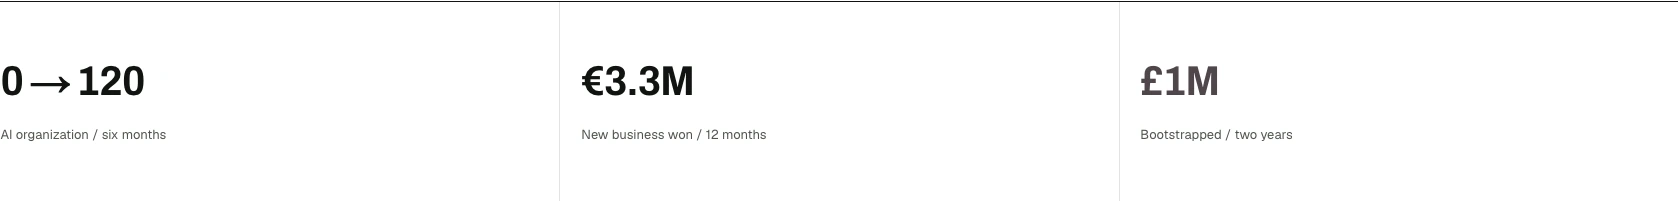
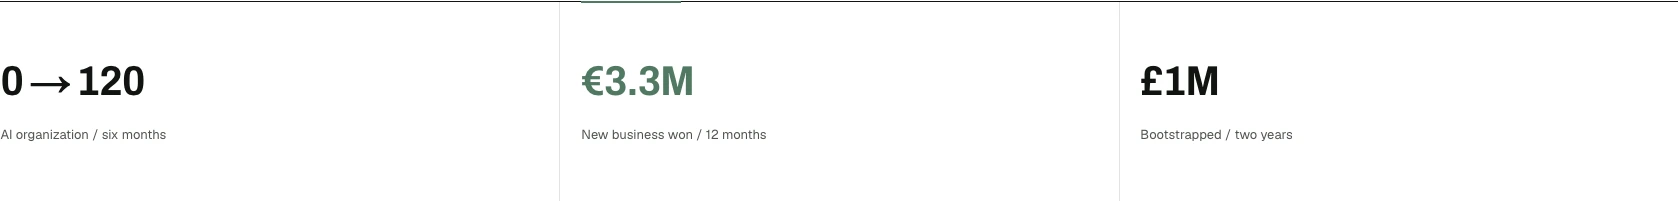
Give outcome hover a clear colour response and a restrained accent (#21)

Changed region(s): [[0.3409, 0.3284, 0.4338, 0.4776], [0.6818, 0.3284, 0.7437, 0.4776], [0.3409, 0.0, 0.4029, 0.0299]]

diff --git a/src/app/globals.css b/src/app/globals.css
@@ -19,9 +19,9 @@
   --card: #f6f6f6;
   --wash-rose: #faf7f8;
   --wash-blue: #f5f8fa;
-  --detail-blue: #41494f;
-  --detail-sage: #424b46;
-  --detail-rose: #50464c;
+  --detail-blue: #446f89;
+  --detail-sage: #507861;
+  --detail-rose: #946378;
   --paper-high: #ffffff;
   --signal: #f6f6f6;
   --accent: #101410;
@@ -830,18 +830,39 @@ a.orbit-label:focus-visible { opacity: 1 !important; color: #ffffff; outline: 2p
 .work-metric-rail > div:nth-child(1) { --metric-ink: var(--detail-blue); }
 .work-metric-rail > div:nth-child(2) { --metric-ink: var(--detail-sage); }
 .work-metric-rail > div:nth-child(3) { --metric-ink: var(--detail-rose); }
-/* Plain evidence stays on paper. Only the ink responds: no filled cell
-   ending against its caption, and no movement of the figures. */
+/* Colour arrives in the figure and a short stroke on the existing rule.
+   Keep the response local to the evidence, with no moving text or fill. */
+.work-metric-rail > div { position: relative; }
+.work-metric-rail > div::before {
+  content: "";
+  position: absolute;
+  top: -1px;
+  left: 1.25rem;
+  width: min(6rem, 40%);
+  height: 2px;
+  background: var(--metric-ink);
+  pointer-events: none;
+  opacity: 0;
+  transform: scaleX(0.25);
+  transform-origin: left;
+  transition: opacity var(--d-2) var(--ease), transform var(--d-3) var(--ease-settle);
+}
+.work-metric-rail > div:first-child::before { left: 0; }
 .work-metric-rail dd {
-  transition: color var(--d-3) var(--ease);
+  transition: color var(--d-2) var(--ease);
 }
 @media (hover: hover) and (pointer: fine) {
   .work-index-row:hover::before,
   .lab-record:hover::before { opacity: 1; }
   .work-metric-rail > div:hover dd { color: var(--metric-ink); }
+  .work-metric-rail > div:hover::before { opacity: 1; transform: scaleX(1); }
+}
+@media (max-width: 768px) {
+  .work-metric-rail > div::before { left: 0; }
 }
 @media (prefers-reduced-motion: reduce) {
-  .work-index-row::before, .lab-record::before, .work-metric-rail dd { transition: none; }
+  .work-index-row::before, .lab-record::before,
+  .work-metric-rail > div::before, .work-metric-rail dd { transition: none; }
 }
 
 

diff --git a/review-vfx/gentle-colour/README.md b/review-vfx/gentle-colour/README.md
@@ -1,21 +1,25 @@
 # Gentle colour and metric spacing — 5 September 2026
 
 The previous outcome hover filled the whole cell, stopping flush against its caption.
-The cells now remain white, the numbers stay still, and each figure receives only a
-restrained blue, sage or rose ink tint. Balanced cell padding and a more generous line
+The cells now remain white, the numbers stay still, and each figure resolves to a visible
+slate blue, sage or dusty rose. A short matching stroke draws along the existing divider.
+Balanced cell padding and a more generous line
 height leave room around the figures and labels, including when stacked on a phone.
 
 Home's near-white rose and the Lab's cool blue fade into the paper instead of covering
 each record with the same violet rectangle. Focus keeps the same acknowledgement as hover.
 
-- [Desktop metrics, final figure hovered](desktop-metrics.webp)
+- [Desktop metrics, middle figure hovered](desktop-metrics.webp)
+- [Blue figure hovered](metric-blue.webp)
+- [Rose figure hovered](metric-rose.webp)
 - [Phone metrics](phone-metrics.webp)
 - [Home record hovered](home-hover.webp)
 - [Lab record hovered](lab-hover.webp)
 
-Validation: production build, ESLint, 263 unit tests and eight relevant browser tests passed.
-The browser tests cover responsive layout, focus, case navigation, semantic fallbacks and
-mobile accessibility. Additional Chrome checks at 320, 390, 768, 769, 1280, 1920 and 2560px
+Follow-up validation: production build, ESLint and four relevant browser tests passed.
+The browser tests cover responsive layout, focus and mobile accessibility.
+All three hover colours have at least 4.87:1 contrast on white. Additional Chrome checks
+at 320, 390, 768, 769, 1280, 1920 and 2560px
 confirmed that figures and captions fit, hover does not move the numbers, and the pages do
 not overflow. Touch, keyboard focus and reduced-motion states were checked.
 Measurements are recorded in [visual-verification.json](visual-verification.json).

diff --git a/DESIGN-MOTION.md b/DESIGN-MOTION.md
@@ -20,8 +20,8 @@ labels. Display weight never animates.
 - Paper `#fff`; ink `#101410`; reading `#4f554d`; ghost `#b9b9b9`; hairline `#e3e3e3`.
 - Interaction washes: near-white rose `#faf7f8` for Home rows and cool blue `#f5f8fa` for Lab
   records, fading to transparent across each record. Keyboard focus receives the same acknowledgment.
-  Outcome figures use restrained blue `#41494f`, sage `#424b46` and rose `#50464c` ink on hover;
-  their cells remain white.
+  Outcome figures use slate blue `#446f89`, sage `#507861` and dusty rose `#946378` ink on hover,
+  accompanied by a short 2px accent on the existing rule. Their cells remain white.
 - Live green `#3fa06c` means running in production only.
 - Clay `#e45b3d` marks a small case/source annotation and never becomes a decorative field.
 - Shared frame up to 112rem, with gutters clamped from 22px to 6rem. Type and content grow
@@ -42,9 +42,10 @@ labels. Display weight never animates.
 - Planet captures join the actual camera distance and framing, then return the camera,
   exposure and photographic sky together. Full and compact shots share the same landmarks;
   the compact clock has continuous speed between them. Gas always covers the viewport.
-- Outcome figures receive a slow ink tint on pointer hover and stay still, with room above and
-  below both figure and caption. They remain plain data, with no button cursor, invented click
-  action or animated count. Reduced motion makes the tint immediate.
+- Outcome figures resolve to a visible colour in 280ms on pointer hover; a short accent draws
+  along the existing rule in 440ms. Figures and captions stay still, with room above and below.
+  They remain plain data, with no button cursor, invented click action or animated count.
+  Reduced motion makes both responses immediate; touch keeps the neutral resting state.
 
 ## Route rules
 

diff --git a/DESIGN.md b/DESIGN.md
@@ -95,7 +95,8 @@ semantic fallbacks and motion that explains causal change remain part of the sys
 Editorial and restrained: strong typography, generous whitespace, green for live production
 state and clay for reconstruction labels. Near-white rose (`#faf7f8`) on Home and cool blue
 (`#f5f8fa`) in the Lab fade into the paper on interaction; they convey no status. Outcome
-figures stay still on white, with only a subdued blue, sage or rose ink tint on hover. The live-data elements are
+figures stay still on white, with visible blue, sage or rose ink and a short matching accent
+on the existing rule when hovered. The live-data elements are
 quiet instruments, not dashboards. The
 site should feel like it was designed by someone with taste and built by someone who
 ships — because both must be true for the positioning to hold.
